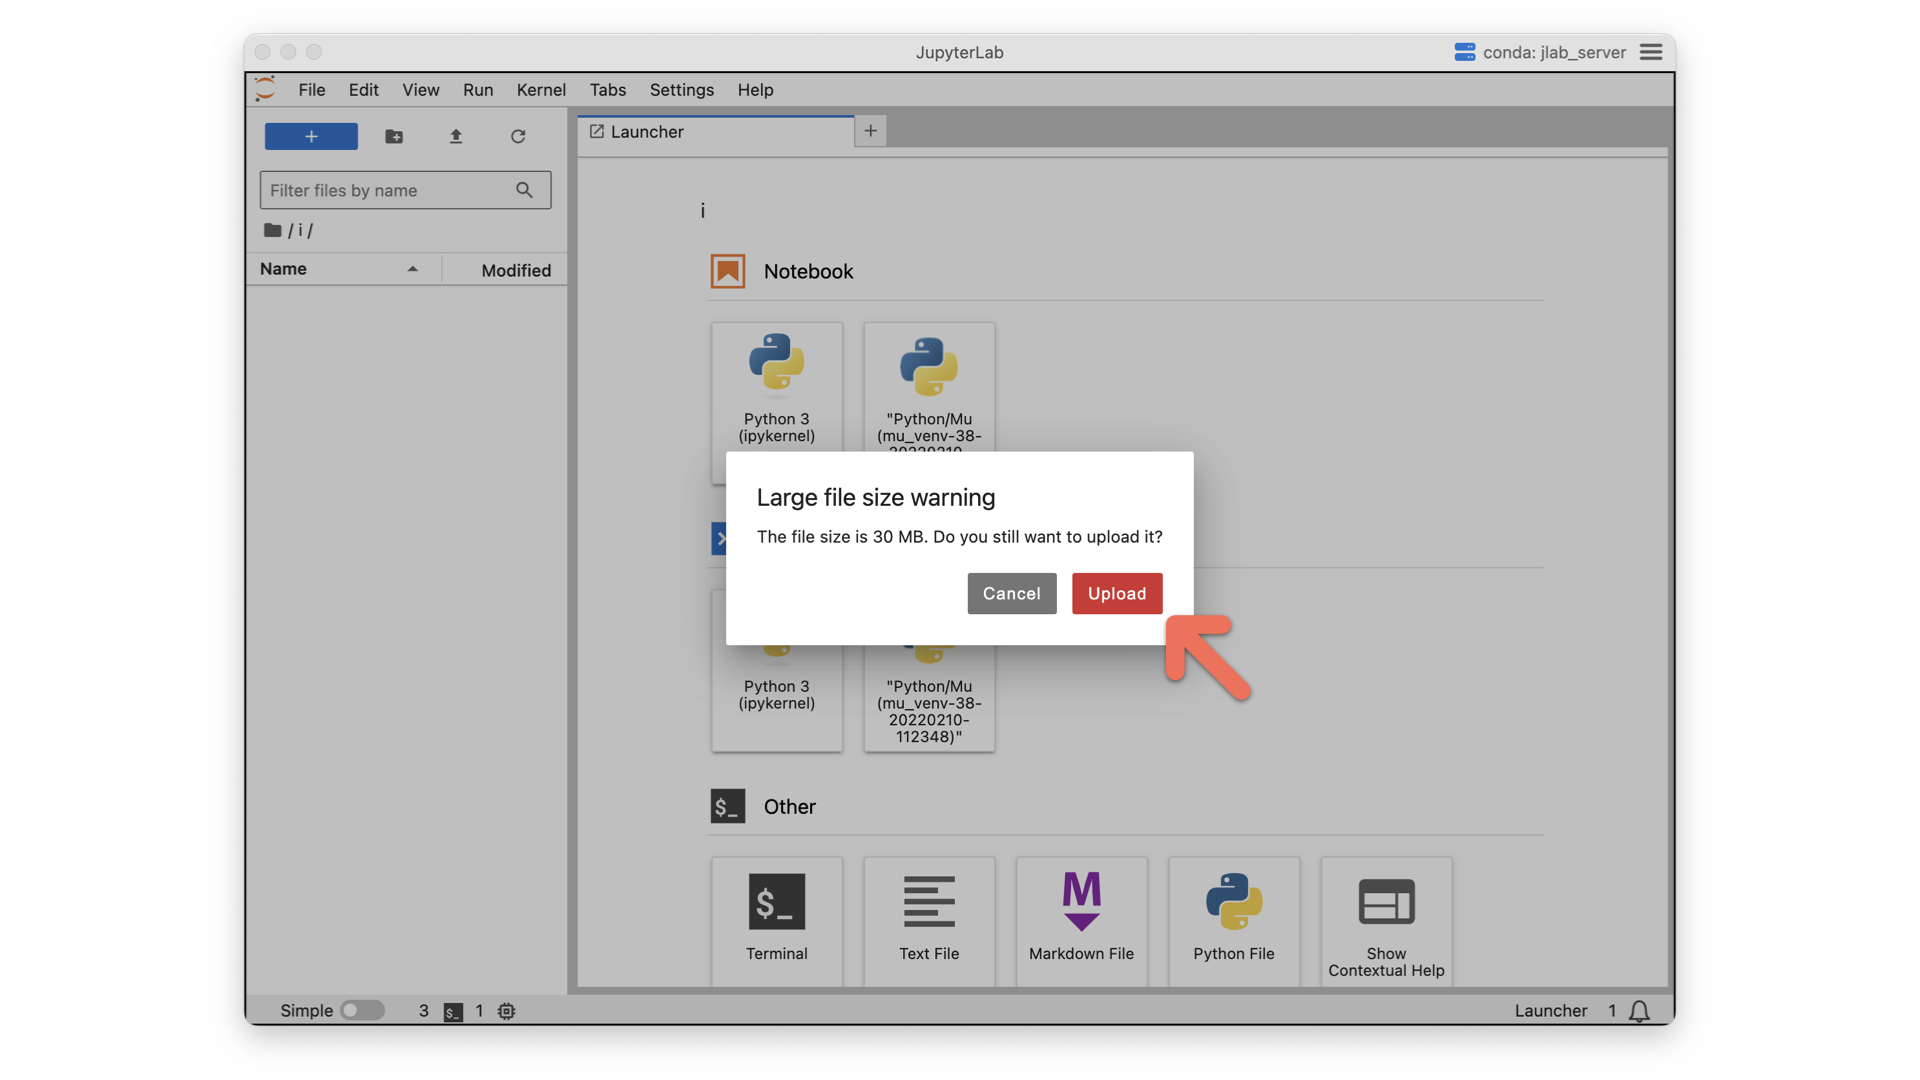
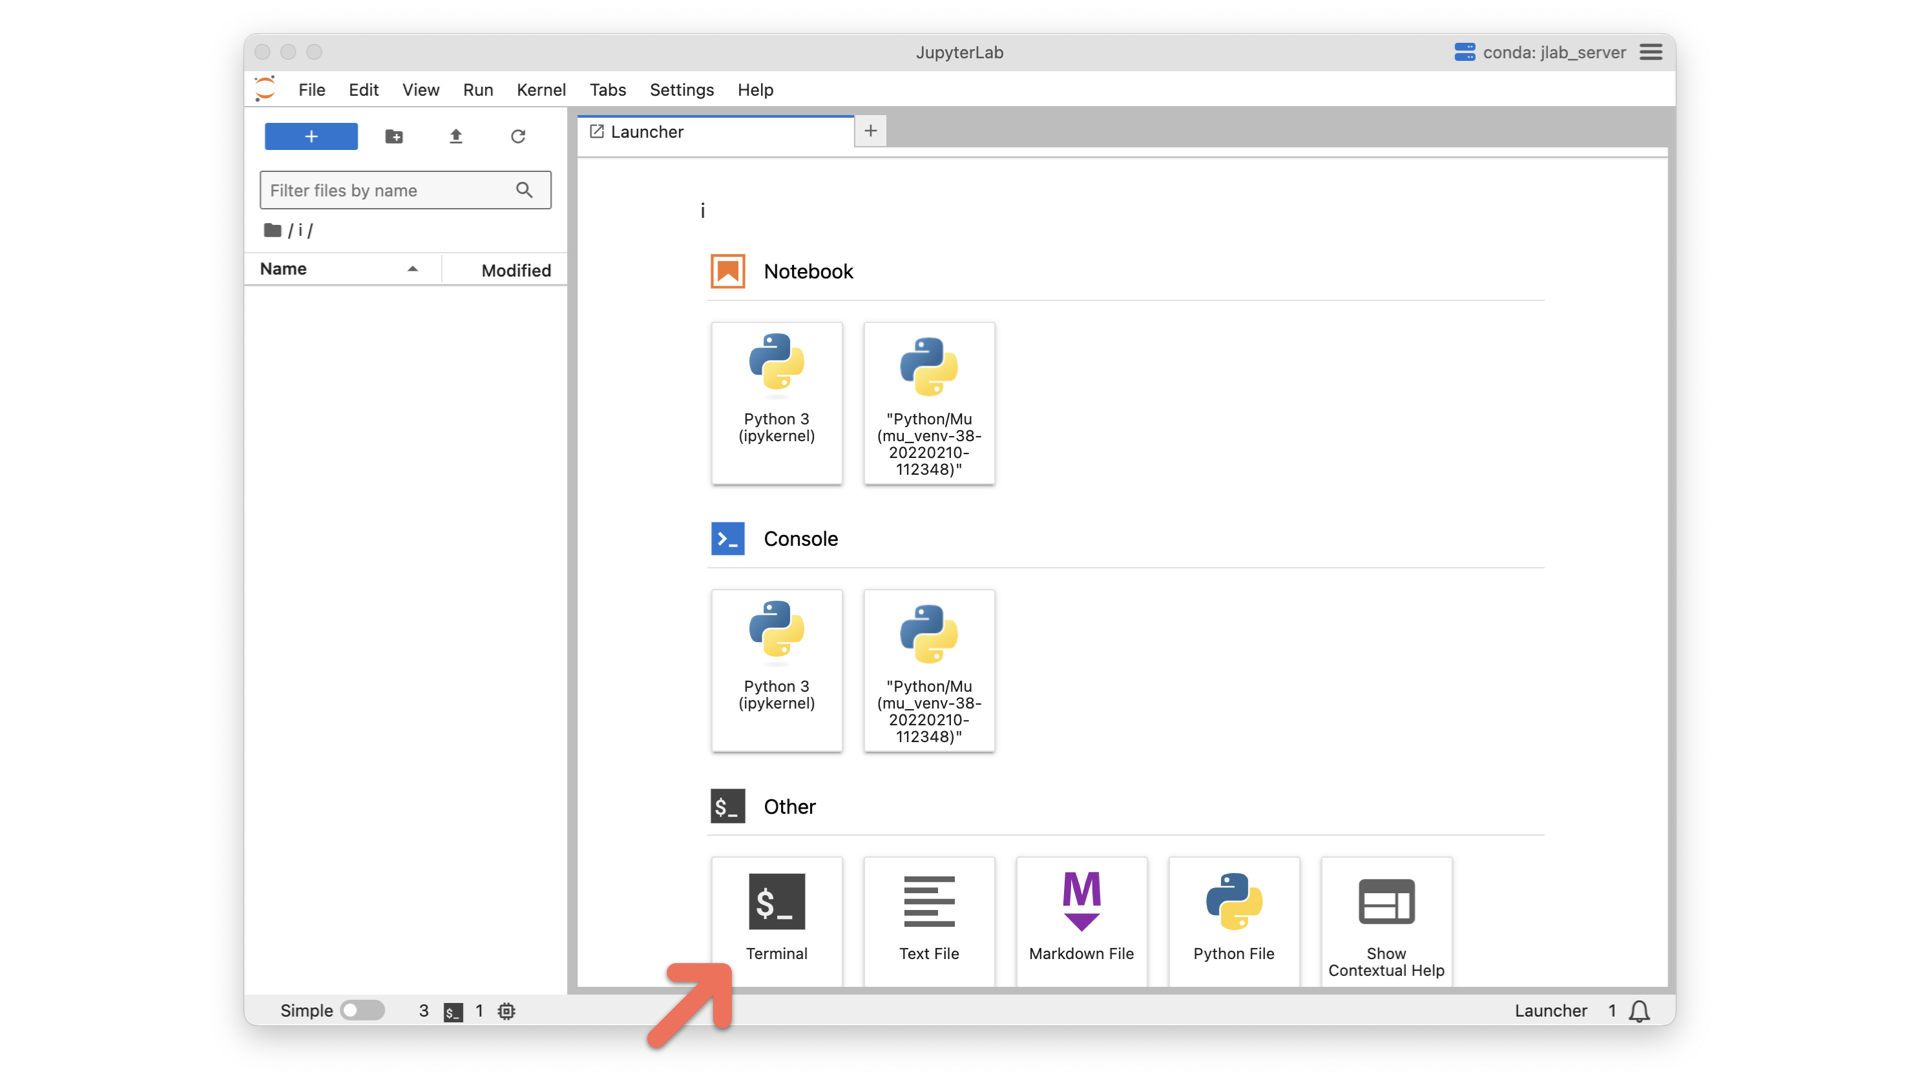
sync

diff --git a/2-get-started/get-started.md b/2-get-started/get-started.md
@@ -100,32 +100,41 @@ This lab assumes you have:
 
    ![Login to Jupyter lab.](images/workshop-presentation-five.png " ")
   
-2. Once logged in, you will see several directories. You will need to upload the `ocw24flask` directory to the Jupyter lab.
+2. Once logged in, you may see several directories. You will need to upload the `ocw24flask` directory to the Jupyter lab. To do this you can simply drag the `.zip` file from your Downloads folder (or from where you saved it to in the earlier Task) into the Jupyter Lab (as seen in the image).  
 
-3. To do this you can simply drag the `.zip` file from your Downloads folder (or from where you saved it to in the earlier Task) into the Jupyter Lab (as seen in the image).click the then the `scripts` directory.
+   ![Drag the zip into the Jupyter lab.](images/workshop-presentation-five-two.png " ")
 
-3. Double-click the `moviestream_resource_module_definitions.sql` file. This file contains the definitions for your Resource Module, Templates, and Handlers, which are your ORDS APIs.
+3. Accept any `Large file size` warnings to upload the file.
+
+   ![Accept large file warning.](images/workshop-presentation-five-three.png " ")
+
+4. Once uploaded, select a new Terminal and unzip the project files using the `unzip ocw24flask.zip` command.  
+
+   ![Unzipping the project folder.](images/workshop-presentation-five-five.png " ")
+
+5. Click into the `ocw24flask` folder, from there the `scripts` folder.  
+
+   ![The scripts folder.](images/workshop-presentation-five-six.png " ")
+
+6. Next, double-click the `moviestream_resource_module_definitions.sql` file. This file contains the definitions for your Resource Module, Templates, and Handlers, which are your ORDS APIs.
   
       ![Reviewing the resource definitions file.](images/workshop-presentation-six.png " ")
 
-4. Next, select all and copy the contents to your clipboard. Then, return to the SQL Worksheet.
+7. Select all and copy the contents to your clipboard. Then, return to the SQL Worksheet.
 
 ## Task 4: Database Actions, Part II
 
 1. Navigate to the SQL Worksheet. Then paste the contents of the `moviestream_resource_module_definitions.sql` file to the SQL Worksheet.
   
-2. Click the <svg xmlns="http://www.w3.org/2000/svg" width="16" height="16" fill="currentColor" class="bi bi-play-circle-fill" viewBox="0 0 16 16"><path d="M16 8A8 8 0 1 1 0 8a8 8 0 0 1 16 0M6.79 5.093A.5.5 0 0 0 6 5.5v5a.5.5 0 0 0 .79.407l3.5-2.5a.5.5 0 0 0 0-.814z" focusable="false"/>
-</svg>  `Run Script` icon. Upon completion, a `PL/SQL procedure successfully completed` message will appear in the `Script Output` tab.
+2. Click the `Run Script` icon. Upon completion, a `PL/SQL procedure successfully completed` message will appear in the `Script Output` tab.
 
    ![Running the resource module script.](images/workshop-presentation-seven.png " ")
 
-   ><svg xmlns="http://www.w3.org/2000/svg" width="16" height="16" fill="currentColor" class="bi bi-exclamation-circle-fill" viewBox="0 0 16 16"><path d="M16 8A8 8 0 1 1 0 8a8 8 0 0 1 16 0M8 4a.905.905 0 0 0-.9.995l.35 3.507a.552.552 0 0 0 1.1 0l.35-3.507A.905.905 0 0 0 8 4m.002 6a1 1 0 1 0 0 2 1 1 0 0 0 0-2" focusable="false"/></svg> As you may know, the `MOVIE` schema has already been REST-enabled. For this reason, it is not necessary for you to execute the `ORDS.ENABLE_SCHEMA` PL/SQL procedure. Executing this procedure will cause no disruptions. The full script is provided for your convenience.
+   > As you may know, the `MOVIE` schema has already been REST-enabled. For this reason, it is not necessary for you to execute the `ORDS.ENABLE_SCHEMA` PL/SQL procedure. Executing this procedure will cause no disruptions. The full script is provided for your convenience.
 
 3. You've just created the ORDS APIs for the `Movie` user. To review the Resource Module, its Resource Templates and Resource Handlers, navigate to the REST Workshop.
 
-   Click the <svg xmlns="http://www.w3.org/2000/svg" width="16" height="16" fill="currentColor" class="bi bi-list" viewBox="0 0 16 16">
-  <path fill-rule="evenodd" d="M2.5 12a.5.5 0 0 1 .5-.5h10a.5.5 0 0 1 0 1H3a.5.5 0 0 1-.5-.5m0-4a.5.5 0 0 1 .5-.5h10a.5.5 0 0 1 0 1H3a.5.5 0 0 1-.5-.5m0-4a.5.5 0 0 1 .5-.5h10a.5.5 0 0 1 0 1H3a.5.5 0 0 1-.5-.5" focusable="false"/>
-</svg> hamburger menu from the top of Database Actions, then click REST.
+   Click the hamburger menu from the top of Database Actions, then click REST.
 
    ![Navigating to the REST Workshop.](images/workshop-presentation-eight.png " ")
 
@@ -139,7 +148,7 @@ This lab assumes you have:
 
 6. Next, copy each of these URI's to your clipboard.
 
-   ><svg xmlns="http://www.w3.org/2000/svg" width="16" height="16" fill="currentColor" class="bi bi-exclamation-circle-fill" viewBox="0 0 16 16"><path d="M16 8A8 8 0 1 1 0 8a8 8 0 0 1 16 0M8 4a.905.905 0 0 0-.9.995l.35 3.507a.552.552 0 0 0 1.1 0l.35-3.507A.905.905 0 0 0 8 4m.002 6a1 1 0 1 0 0 2 1 1 0 0 0 0-2" focusable="false"/></svg> In a few moments, you will return to the Jupyter lab to input these into the application code.
+   > In a few moments, you will return to the Jupyter lab to input these into the application code.
 
    ![Adding the ORDS URIs to the clipboard](images/workshop-presentation-eleven.png " ")
 
@@ -197,4 +206,4 @@ This lab assumes you have:
 
 * **Author** - Chris Hoina, Senior Product Manager, Database Tools
 * **Contributors** -  Jeff Smith, Distinguished Product Manager, Database Tools
-* **Last Updated By/Date** - Chris Hoina, Database Tools, July 2024
+* **Last Updated By/Date** - Chris Hoina, Database Tools, August 2024
